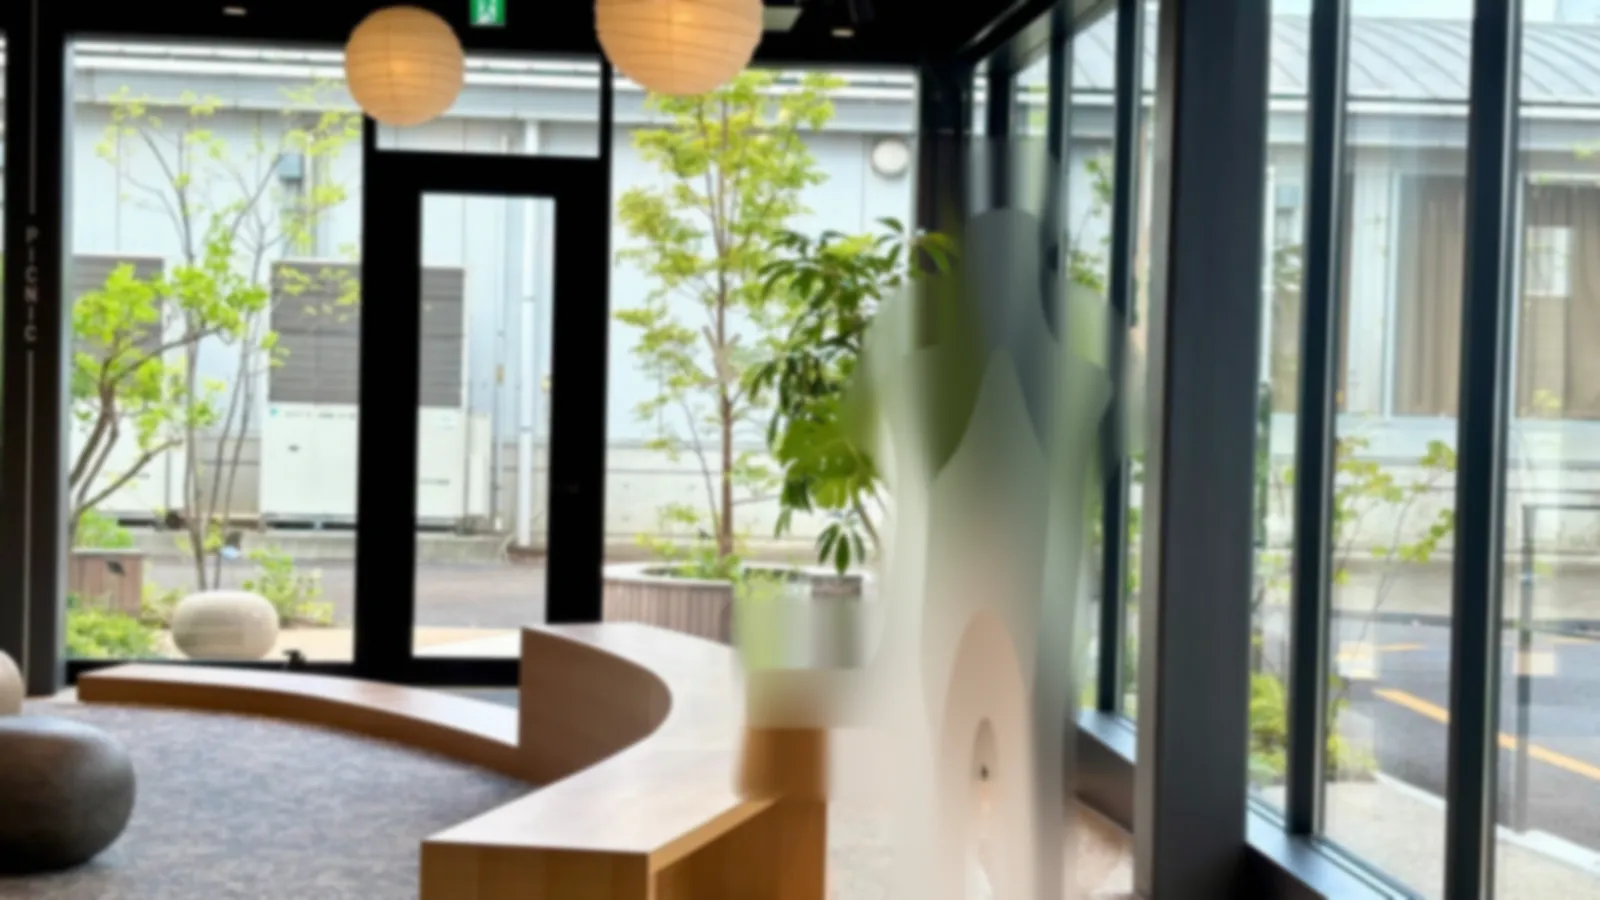
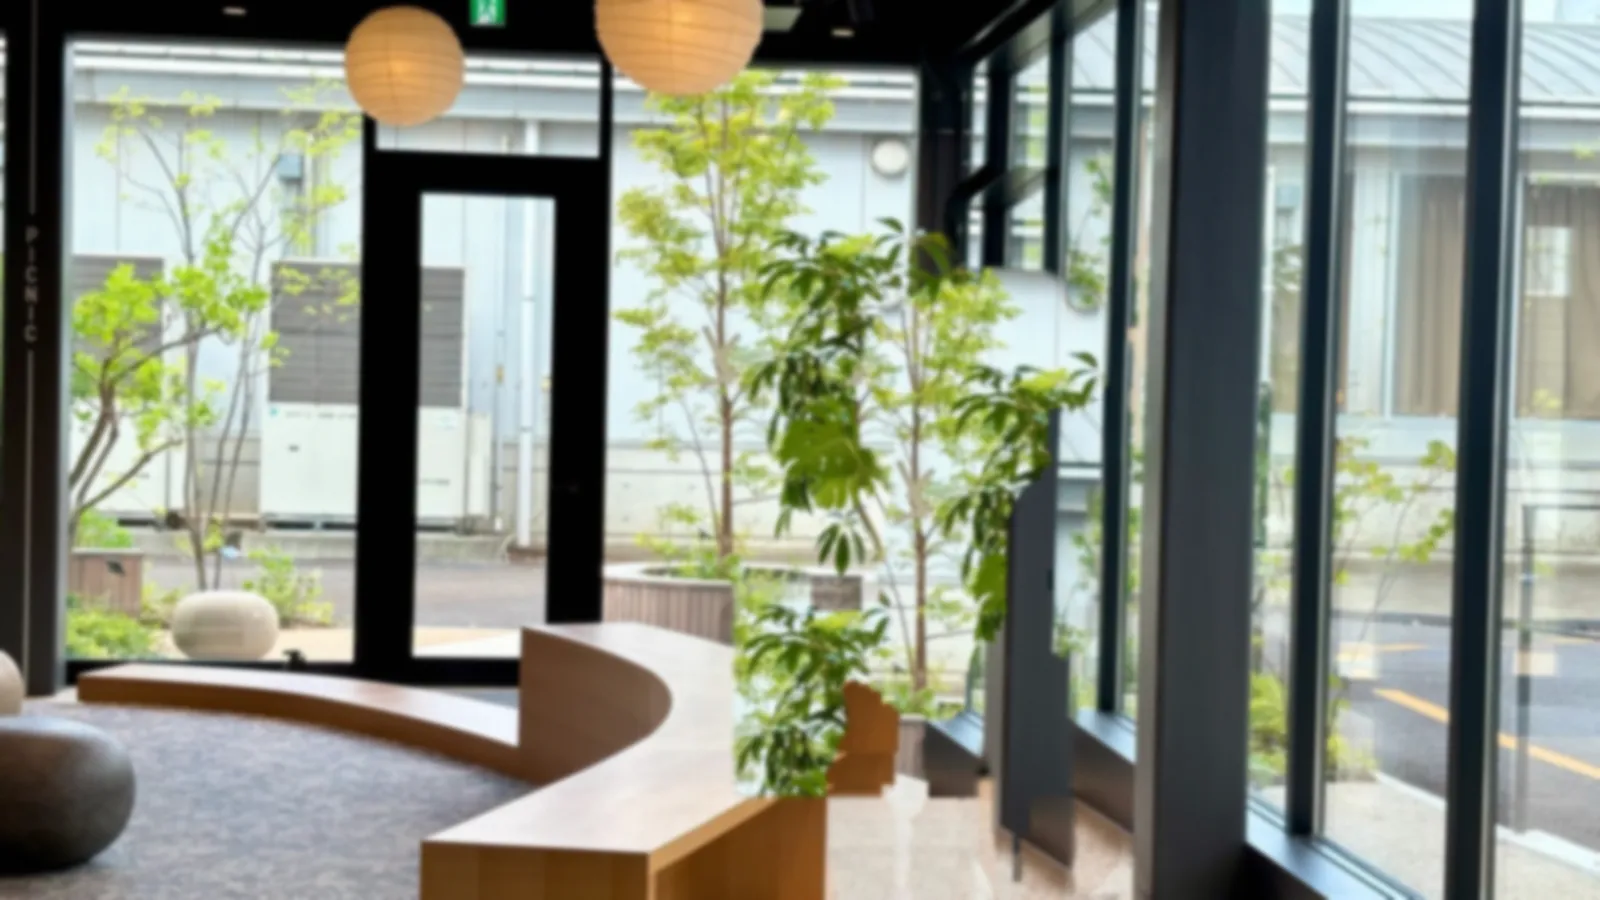
表紙の人物を小さく（PC .76・スマホ .84、足元基準）。背景の人物の跡を周りの模様で埋め直す。表紙の画像に版の番号を付ける

Changed region(s): [[0.4375, 0.1556, 0.7188, 1.0]]

diff --git a/index.html b/index.html
@@ -23,8 +23,8 @@
   <link rel="preconnect" href="https://fonts.googleapis.com">
   <link rel="preconnect" href="https://fonts.gstatic.com" crossorigin>
   <link href="https://fonts.googleapis.com/css2?family=Murecho:wght@400;500;700;800&display=swap" rel="stylesheet">
-  <link rel="preload" as="image" href="assets/images/photo/cover-bg-1600.webp" imagesrcset="assets/images/photo/cover-bg-960.webp 960w, assets/images/photo/cover-bg-1600.webp 1600w, assets/images/photo/cover-bg-2400.webp 2400w" imagesizes="(max-width: 760px) 260vw, 100vw">
-  <link rel="stylesheet" href="css/style.css?v=20261006r">
+  <link rel="preload" as="image" href="assets/images/photo/cover-bg-1600.webp?v=20261007a" imagesrcset="assets/images/photo/cover-bg-960.webp?v=20261007a 960w, assets/images/photo/cover-bg-1600.webp?v=20261007a 1600w, assets/images/photo/cover-bg-2400.webp?v=20261007a 2400w" imagesizes="(max-width: 760px) 260vw, 100vw">
+  <link rel="stylesheet" href="css/style.css?v=20261007a">
   <script>
     (function () {
       var lang = null; try { lang = localStorage.getItem('lang'); } catch (e) {}
@@ -71,9 +71,9 @@
     <!-- 表紙: 背景の写真・名前・人物の3層 -->
     <section class="cover" id="cover">
       <div class="cover__stage" aria-hidden="true">
-        <img class="cover__bg" src="assets/images/photo/cover-bg-1600.webp" srcset="assets/images/photo/cover-bg-960.webp 960w, assets/images/photo/cover-bg-1600.webp 1600w, assets/images/photo/cover-bg-2400.webp 2400w" sizes="(max-width: 760px) 260vw, 100vw" alt="" width="2400" height="1350" fetchpriority="high">
+        <img class="cover__bg" src="assets/images/photo/cover-bg-1600.webp?v=20261007a" srcset="assets/images/photo/cover-bg-960.webp?v=20261007a 960w, assets/images/photo/cover-bg-1600.webp?v=20261007a 1600w, assets/images/photo/cover-bg-2400.webp?v=20261007a 2400w" sizes="(max-width: 760px) 260vw, 100vw" alt="" width="2400" height="1350" fetchpriority="high">
         <p class="cover__name">Yuya <br>Itonaga</p>
-        <img class="cover__person" src="assets/images/photo/cover-person-1600.webp" srcset="assets/images/photo/cover-person-960.webp 960w, assets/images/photo/cover-person-1600.webp 1600w, assets/images/photo/cover-person-2400.webp 2400w" sizes="(max-width: 760px) 260vw, 100vw" alt="" width="2400" height="1350">
+        <img class="cover__person" src="assets/images/photo/cover-person-1600.webp?v=20261007a" srcset="assets/images/photo/cover-person-960.webp?v=20261007a 960w, assets/images/photo/cover-person-1600.webp?v=20261007a 1600w, assets/images/photo/cover-person-2400.webp?v=20261007a 2400w" sizes="(max-width: 760px) 260vw, 100vw" alt="" width="2400" height="1350">
       </div>
       <div class="cover__text">
         <h1 class="sr-only">Yuya Itonaga</h1>
@@ -263,7 +263,7 @@
     <p>v3.0.0</p>
   </footer>
 
-  <script src="js/i18n.js?v=20261006r"></script>
-  <script src="js/main.js?v=20261006r"></script>
+  <script src="js/i18n.js?v=20261007a"></script>
+  <script src="js/main.js?v=20261007a"></script>
 </body>
 </html>

diff --git a/css/style.css b/css/style.css
@@ -155,6 +155,8 @@ h2 {
   object-fit: cover; object-position: 50% 40%;
 }
 .cover__bg { filter: brightness(.62) saturate(.8); }
+/* 背景は人物を消した写真なので、人物だけ足元を基準に小さくする（parallax の transform とは別の scale） */
+.cover__person { scale: .76; transform-origin: 64% 100%; }
 .cover__name {
   position: absolute; left: 0; right: 0; top: 24%;
   padding-inline: var(--gutter);
@@ -190,6 +192,7 @@ h2 {
 @media (max-width: 760px) {
   /* 縦長の画面では写真を下に置き、上の紺に名前を出す */
   .cover__bg, .cover__person { height: 82%; object-position: 68% 0; }
+  .cover__person { scale: .84; transform-origin: 50% 100%; }
   .cover__bg {
     -webkit-mask-image: linear-gradient(to bottom, transparent, #000 22%);
     mask-image: linear-gradient(to bottom, transparent, #000 22%);

diff --git a/CONTENT.md b/CONTENT.md
@@ -26,7 +26,8 @@
 
 元は `~/Desktop/Technophere/image/original/`。
 
-- `cover-bg-*`: IMG_4868 から人物を消し、全体を少しぼかしたもの（人物が二重に見えないように）。
+- `cover-bg-*`: IMG_4868 から人物を消し（OpenCV contrib の `xphoto.inpaint` SHIFTMAP で周りの模様を写す。1/3 に縮めて埋めてから戻す）、全体を少しぼかしたもの。
+  人物の層は背景とは別に CSS の `scale` で小さくしている（PC .76・スマホ .84、足元が基準）ので、背景に人物の跡が残っていると見えてしまう。
 - `cover-person-*`: IMG_4868 の人物の切り抜き。macOS Vision の人物マット（accurate）を土台に、体の内側を不透明にし、輪郭をならし、
   左ひざの外の石・左腕に重なる植物の茎・縁の窓の光を外した。背景と同じ大きさ（2400×1350 など）なので、同じ `object-fit` で重なる。
 - `lab-*`: IMG_4898（はじまり）。`keys-*`: IMG_4859（使う道具）。`lamps-*`: IMG_4868 の左側（人の写っていない所。次のアイデアへ）。
